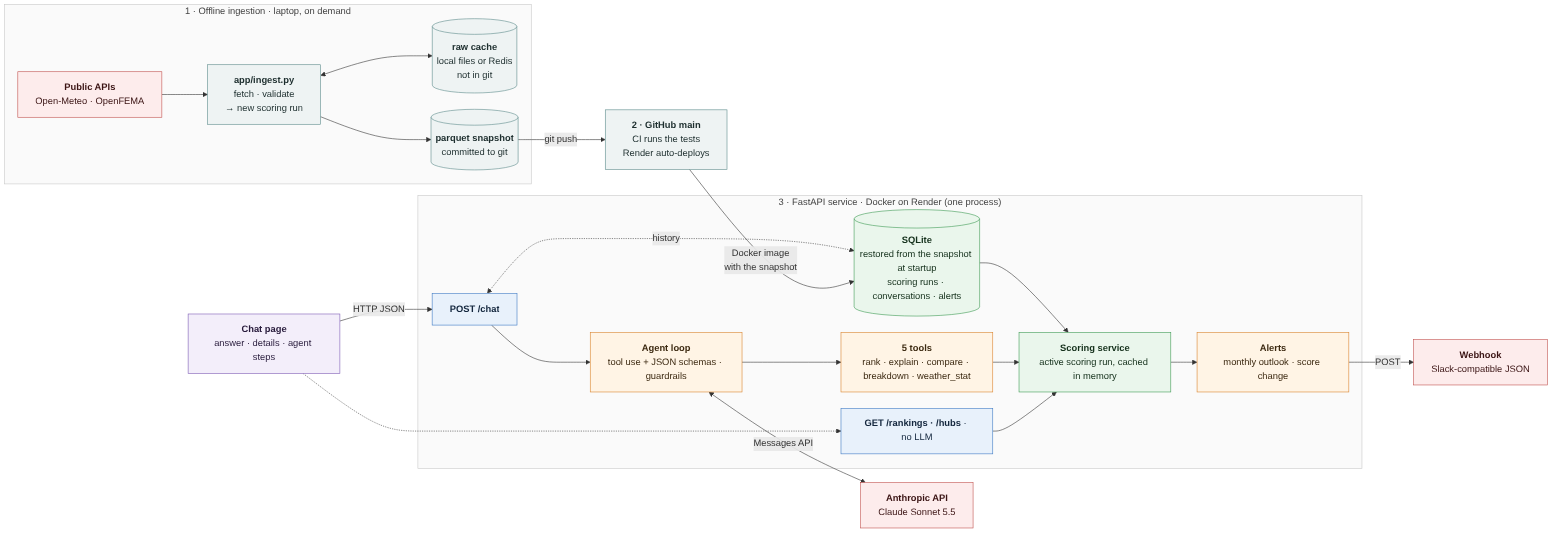
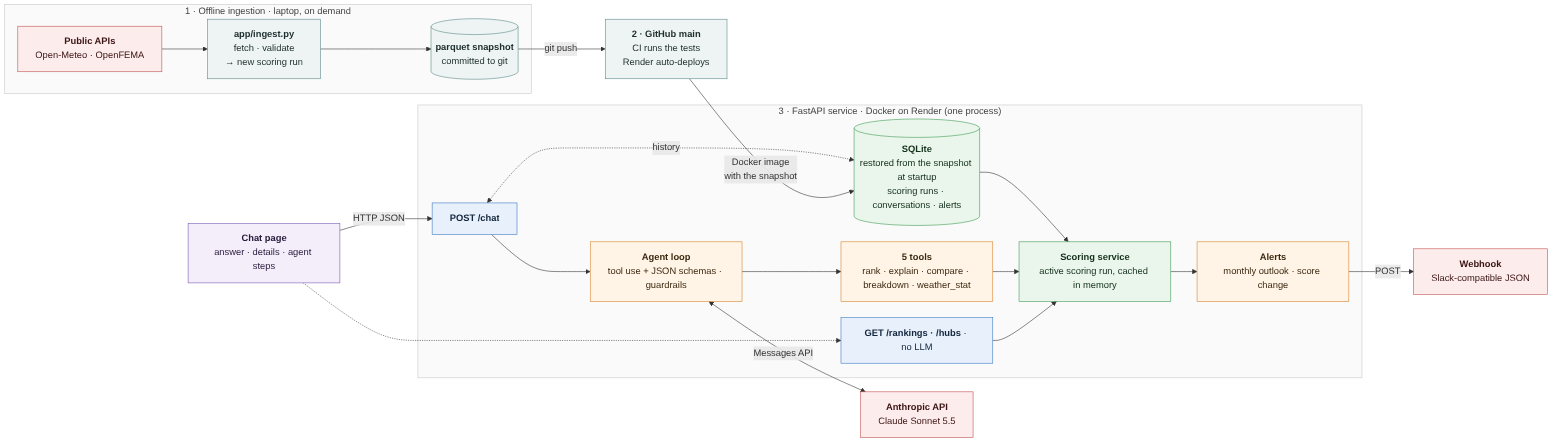
README: no mention of the raw API cache (diagram, sections 7 and 9, settings, repository tree)
Claude-Session: https://claude.ai/code/session_011hVRPXqiRTcMk6kbKtmVuh

diff --git a/README.md b/README.md
@@ -31,10 +31,8 @@ flowchart LR
         direction TB
         APIS["<b>Public APIs</b><br/>Open-Meteo · OpenFEMA"]
         ING["<b>app/ingest.py</b><br/>fetch · validate<br/>→ new scoring run"]
-        RAW[("<b>raw cache</b><br/>local files or Redis<br/>not in git")]
         SNAP[("<b>parquet snapshot</b><br/>committed to git")]
         APIS --> ING
-        ING <--> RAW
         ING --> SNAP
     end
 
@@ -79,13 +77,12 @@ flowchart LR
     class AGENT,TOOLS,ALERT agent
     class CLAUDE,HOOK,APIS ext
     class ENG,DB eng
-    class ING,RAW,SNAP,GIT batch
+    class ING,SNAP,GIT batch
     class OFF,SVC group
 ```
 
 1. **Offline ingestion** (on a laptop, on demand: monthly or quarterly is enough) downloads from the
-   public APIs, validates, writes the parquet snapshot and creates a scoring run. The raw API
-   responses stay in a local cache (or Redis) so a re-run spends no quota.
+   public APIs, validates, writes the parquet snapshot and creates a scoring run.
 2. **The snapshot is committed**; a push to `main` runs the tests in CI and Render redeploys.
 3. **The service never calls a weather API**: at startup it restores the snapshot into SQLite and
    scores it once; chat, tools, `/rankings` and alerts read the active scoring run.
@@ -184,7 +181,6 @@ See [section 1a](#1a-deploy-to-a-url-render).
 | `LLM_MODEL` | `claude-sonnet-5-5` | Model used by the agent |
 | `LLM_EFFORT` | `low` | Thinking effort; the tools do the computing |
 | `LLM_THINKING_DISPLAY` | `summarized` | `summarized` returns a readable thinking summary (for the "Agent steps" view); `omitted` returns none |
-| `REDIS_URL` | (none) | Optional: keep the raw API cache in Redis instead of files (section 7) |
 | `ALERT_WEBHOOK_URL` | (none) | Optional: where alerts are POSTed (Slack-compatible JSON); without it they are stored and shown in the page |
 | `ALERTS_TOKEN` | (none) | Optional: token required by `POST /alerts/check` |
 | `APP_PASSWORD` | (none) | Optional: password for the whole site (HTTP Basic auth, any user name), except `/health`. Set it on a public URL |
@@ -392,7 +388,7 @@ Two layers:
 
 | Layer | Checks | Command | Cost |
 |---|---|---|---|
-| Unit tests (`tests/`, 89 tests; run on every push by GitHub Actions) | Scoring rules, time breakdowns, stored scoring runs, ingestion, API, agent loop with a scripted fake Claude, the eval checks themselves, Redis cache | `uv run pytest -q` | free, offline |
+| Unit tests (`tests/`, 89 tests; run on every push by GitHub Actions) | Scoring rules, time breakdowns, stored scoring runs, ingestion, API, agent loop with a scripted fake Claude, the eval checks themselves | `uv run pytest -q` | free, offline |
 | Agent evals (`evals/`, 24 cases / 29 turns) | The real model on edge cases: the 4 assignment questions, a city that is not a hub, "top 100" when only 50 exist, follow-ups, "winter" hazard vs season, safest hubs, worst month, per-year comparison, hurricane season | `uv run python -m evals.run` | ~$0.80 |
 
 Checks on every turn: valid answer format, the right tool with the right arguments, ranking equal
@@ -437,7 +433,7 @@ Results so far (details and what changed after each run in `docs/EVALS.md`):
 **When to run ingestion:** the first build of the dataset; a data refresh (a new year of weather,
 new FEMA declarations: monthly or quarterly is plenty, the KPI is a 5-year average); a hub added to
 `config/hubs.yaml` (`--hubs new_id`); a longer history or a new variable; a change in the cleaning
-logic (re-run from the local cache, no API calls). **Never** at server startup, per question, or on Render.
+logic. **Never** at server startup, per question, or on Render.
 
 **Why it is separate from the app:** the APIs are slow, rate-limited and sometimes unreachable (the
 Open-Meteo free quota ran out during this project); historical data barely changes; questions are
@@ -454,26 +450,10 @@ uv run python -m app.ingest --status
 uv run python -m app.ingest
 ```
 
-Options: `--source weather|declarations`, `--hubs denver,miami`, `--refresh` (ignore the cache),
+Options: `--source weather|declarations`, `--hubs denver,miami`,
 `--no-score`. **Ingestion ends by creating a new scoring run** if the data changed (never after a
 failed ingestion) and prints which hub scores moved; a running server serves it within 5 seconds.
 The weather download needs a machine with Open-Meteo quota (the free tier is limited).
-
-**Raw API cache.** Every API response is cached, so re-running ingestion makes no API calls:
-local files in `data/raw/` by default (git-ignored: the app never needs them, only ingestion
-does, so a fresh clone runs without them), or **Redis** when `REDIS_URL` is set. To use Redis (Docker):
-
-```
-docker run -d --name redis -p 6379:6379 -v redis-data:/data redis:7 redis-server --appendonly yes
-```
-
-Add `REDIS_URL=redis://localhost:6379/0` to `.env`, then copy a local file cache (if you have one) into Redis
-once and check:
-
-```
-uv run python -m app.sources.http_cache import-files
-uv run python -m app.sources.http_cache status
-```
 
 ---
 
@@ -498,7 +478,6 @@ More diagrams: `docs/ARCHITECTURE.md`, `docs/DATA_MODEL.md`. PNG/SVG export of t
 
 | Layer | Technology | Contents | Why |
 |---|---|---|---|
-| Raw API cache | **Redis** (`REDIS_URL`) or local JSON files in `data/raw/` (not in git) | Original API responses, never expire | Protects the Open-Meteo quota; audit trail ("where did this number come from?"); Redis shares one cache across machines, files work with no server |
 | Snapshot | Parquet in `data/snapshot/` (828 KB, in git) | Cleaned tables: hubs, daily weather, declarations, ingest log | Reproducible: any clone has exactly the data behind the numbers |
 | Database | **SQLite** (`data/weather_risk.db`, rebuilt at startup) | The same tables + chat conversations | Small relational data, SQL for checks, no server to run; one container needs no more |
 | Scores | **SQLite scoring tables**, one set per scoring run (`rule_sets`, `scoring_runs`, `hub_results`, `hazard_scores`, `disruption_days`); the active run cached in memory | KPI per hub and hazard, drivers, every disruption day | Every score traceable to the exact rules and data; runs can be compared (risk-change alerts); a new run reaches the running server without a restart |
@@ -508,7 +487,7 @@ All tables and how they connect: `docs/DATA_MODEL.md` (entity-relationship diagr
 
 Scale-out path: the target data model in `docs/DATA_MODEL_SCALABLE.md` (Postgres with partitioned
 weather per location, versioned rule sets and scoring runs, persisted disruption days and monthly
-scores, raw responses in object storage, Redis as the read cache).
+scores, Redis as the read cache).
 
 ---
 
@@ -522,7 +501,7 @@ app/
   db.py                 SQLite schema, snapshot restore/export
   ingest.py             offline ingestion CLI (ends with a scoring run)
   alerts.py             monthly outlook and score-change alerts, webhook delivery
-  sources/              open_meteo.py, fema_declarations.py, http_cache.py (Redis / files)
+  sources/              open_meteo.py, fema_declarations.py
   scoring/
     disruption.py       the rules engine: disruption days per hub and hazard, ranking
     periods.py          month / season / year breakdowns
@@ -542,7 +521,6 @@ config/
   alerts.yaml           alert policy (thresholds, lead time)
 data/
   snapshot/             parquet snapshot (in git)
-  raw/                  raw API responses (local cache for ingestion, git-ignored)
 evals/                  cases.yaml, checks.py, run.py, report.json, trajectories/
 tests/                  offline tests
 docs/                   design documents (section 13)
@@ -576,7 +554,7 @@ Every answer from the agent carries `assumptions`, `confidence` and `uncertainty
 ## 12. Status and next steps
 
 Built: data ingestion, scoring engine, time breakdowns, 5-tool agent with guardrails, API, chat
-page with agent-step view, trajectories, Redis cache, scores stored per scoring run, standardised index and tiers (also per month), scoring triggered by ingestion, alerts (monthly outlook + score change) safe under concurrency, Docker image and Render blueprint, 89 tests with CI, 24-case eval set, 15-case eval set (run 7: 110/111).
+page with agent-step view, trajectories, scores stored per scoring run, standardised index and tiers (also per month), scoring triggered by ingestion, alerts (monthly outlook + score change) safe under concurrency, Docker image and Render blueprint, 89 tests with CI, 24-case eval set, 15-case eval set (run 7: 110/111).
 
 Next (in order): refresh `docs/ARCHITECTURE.md`; bonus: voice input
 (browser Web Speech API); live NWS alerts for storms in the coming days. Longer-term improvements (cost in
@@ -589,9 +567,9 @@ dollars, tail risk, FEMA National Risk Index, uncertainty ranges) are in `docs/I
 | Document | Contents |
 |---|---|
 | `docs/ARCHITECTURE.md` | Component diagram, chat sequence, component table |
-| `docs/DATA_MODEL.md` | Entity-relationship diagram of every table (Redis cache, SQLite, in-memory) |
+| `docs/DATA_MODEL.md` | Diagram of every table (source tables, scoring runs, alerts) and how they connect |
 | `docs/DATA_MODEL_SCALABLE.md` | Target data model for scale: Postgres, versioned rules and scoring runs, incremental pipeline, migration path |
-| `docs/DESIGN_DECISIONS.md` | Every design decision with the options considered and why (API, agent, UI, tools, guardrails, caching, Redis) |
+| `docs/DESIGN_DECISIONS.md` | Every design decision with the options considered and why (API, agent, UI, tools, guardrails, caching, scoring runs, alerts, concurrency) |
 | `docs/QUESTION_CATALOG.md` | The questions an analyst will ask, and which tool answers each |
 | `docs/EVALS.md` | Eval cases and the analysis of every run |
 | `docs/DATA_NOTES.md` | Data quality checks, calibration, known limitations |
